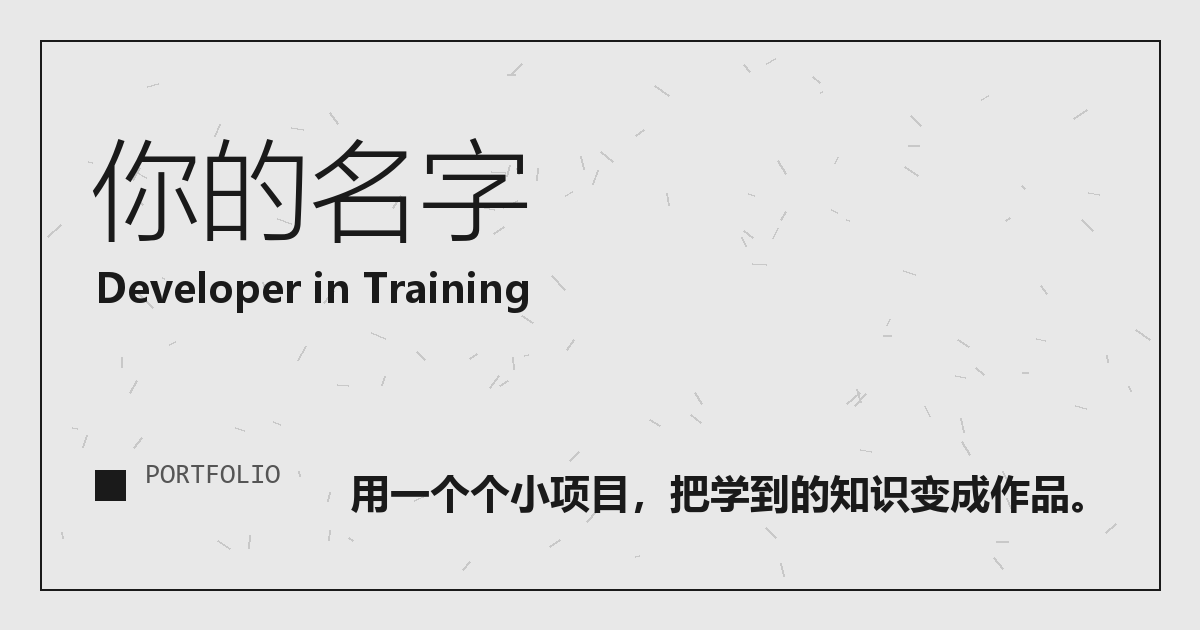
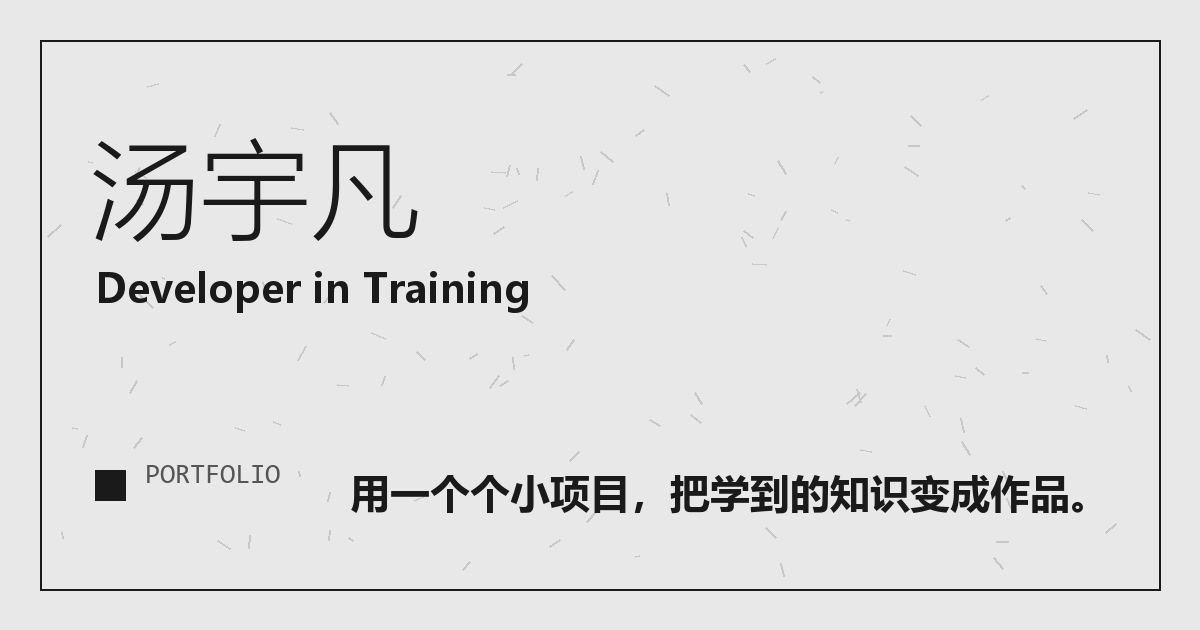
feat: 替换真实姓名与联系方式

Changed region(s): [[0.0617, 0.2111, 0.4625, 0.3921]]

diff --git a/index.html b/index.html
@@ -3,7 +3,7 @@
 <head>
   <meta charset="UTF-8" />
   <meta name="viewport" content="width=device-width, initial-scale=1.0" />
-  <title>你的名字 · Developer</title>
+  <title>汤宇凡 · Developer</title>
   <meta name="description" content="个人项目作品集网站：用一个个小项目，把学到的知识变成作品。" />
 
   <!-- 浏览器标签图标 -->
@@ -11,7 +11,7 @@
 
   <!-- 分享卡片（Open Graph）：链接发到社交媒体时显示标题、描述和预览图 -->
   <meta property="og:type" content="website" />
-  <meta property="og:title" content="你的名字 · Developer" />
+  <meta property="og:title" content="汤宇凡 · Developer" />
   <meta property="og:description" content="用一个个小项目，把学到的知识变成作品。" />
   <meta property="og:url" content="https://gjghjg.github.io/my-project-portfolio/" />
   <meta property="og:image" content="https://gjghjg.github.io/my-project-portfolio/assets/og-image.png" />
@@ -40,7 +40,7 @@
   <!-- 首屏 -->
   <header class="hero" id="home">
     <div class="hero__heading">
-      <h1 class="hero__name">你的名字</h1>
+      <h1 class="hero__name">汤宇凡</h1>
       <p class="hero__role">Developer in Training</p>
     </div>
 
@@ -93,14 +93,14 @@
     <section id="contact" class="section" aria-labelledby="contact-title">
       <h2 id="contact-title" class="section__label">CONTACT</h2>
       <ul class="contact-list">
-        <li><a href="mailto:you@example.com">you@example.com</a></li>
-        <li><a href="https://github.com/yourname" target="_blank" rel="noopener">github.com/yourname</a></li>
+        <li><a href="mailto:lingayu3214@163.com">lingayu3214@163.com</a></li>
+        <li><a href="https://github.com/gjghjg" target="_blank" rel="noopener">github.com/gjghjg</a></li>
       </ul>
     </section>
   </main>
 
   <footer class="site-footer">
-    <p>© <span id="year"></span> 你的名字</p>
+    <p>© <span id="year"></span> 汤宇凡</p>
   </footer>
 
   <script type="module" src="js/main.js"></script>

diff --git a/tests/site.test.js b/tests/site.test.js
@@ -65,6 +65,15 @@ test("页面：有 lang、title 和 viewport 设置", () => {
   assert.ok(html.includes("viewport"), "缺少 viewport meta");
 });
 
+test("个人信息：姓名、邮箱和 GitHub 均使用真实内容", () => {
+  assert.ok(html.includes("<title>汤宇凡 · Developer</title>"), "页面标题未使用真实姓名");
+  assert.ok(html.includes('<h1 class="hero__name">汤宇凡</h1>'), "首屏姓名未更新");
+  assert.ok(html.includes('href="mailto:lingayu3214@163.com"'), "邮箱链接未更新");
+  assert.ok(html.includes('href="https://github.com/gjghjg"'), "GitHub 链接未更新");
+  assert.ok(!html.includes("你的名字"), "页面仍包含姓名占位");
+  assert.ok(!html.includes("you@example.com"), "页面仍包含邮箱占位");
+});
+
 // ---------- 新功能：主题切换 ----------
 
 test("主题切换：包含 LIGHT / DARK 按钮和 data-theme 属性", () => {

diff --git a/tests/e2e/site.spec.js b/tests/e2e/site.spec.js
@@ -9,7 +9,7 @@ import { projects } from "../../js/data.js";
 
 test("首页加载：标题和首屏内容正确", async ({ page }) => {
   await page.goto("/");
-  await expect(page).toHaveTitle(/你的名字/);
+  await expect(page).toHaveTitle(/汤宇凡/);
   await expect(page.locator(".hero__name")).toBeVisible();
   await expect(page.locator("#flow-canvas")).toBeVisible();
 });

diff --git a/scripts/generate-og-image.py b/scripts/generate-og-image.py
@@ -43,7 +43,7 @@ def main():
     small_font = load_font(["consola.ttf", "msyh.ttc"], 28)
 
     # 左上：名字 + 角色
-    draw.text((90, 110), "你的名字", font=name_font, fill=FG)
+    draw.text((90, 110), "汤宇凡", font=name_font, fill=FG)
     draw.text((95, 260), "Developer in Training", font=role_font, fill=FG)
 
     # 左下：方形符号（呼应 favicon）

diff --git a/DECISIONS.md b/DECISIONS.md
@@ -11,6 +11,13 @@
 
 ---
 
+## 2026-11-27 替换真实个人信息，保留项目示例
+
+- **实际内容**：用户提供姓名「汤宇凡」、邮箱「lingayu3214@163.com」和 GitHub 地址「https://github.com/gjghjg」，用于替换页面身份与联系方式占位。
+- **范围**：更新页面标题、Open Graph 标题、首屏姓名、页脚、邮箱和 GitHub 链接，并重新生成同名 OG 分享图；`js/data.js` 中三个示例项目及其虚构仓库链接保持不变，等有真实作品后统一替换。
+- **验证**：新增个人信息结构测试，防止姓名、邮箱和 GitHub 占位回退；E2E 的标题断言同步改为真实姓名。分享图生成后实际检查中文显示与排版，再运行全部单元测试和三浏览器 E2E。
+- **结果**：32 项单元／结构测试与 51 项三浏览器 E2E 全部通过；OG 分享图中文显示正常。实际查看 1440×900 桌面和 375×812 手机完整页面，真实姓名、邮箱、GitHub 地址与页脚均完整显示，手机视口无横向溢出。
+
 ## 2026-11-27 记录首次手机真机验收反馈
 
 - **实际反馈**：用户反馈已按手机真机清单测试一遍，未发现问题。本次只记录这一整体结果，不虚构手机型号、系统、浏览器版本或逐项勾选状态。
@@ -122,9 +129,10 @@
 
 ## 待办 / 待定（TODO）
 
-- [ ] 替换所有占位内容：姓名、邮箱、GitHub 链接、示例项目
+- [x] 替换个人信息：姓名、邮箱、GitHub 链接（2026-11-27 完成）
+- [ ] 替换三个示例项目及其虚构仓库链接（等待真实作品）
 - [x] 把仓库推到远程（2026-11-17 完成：https://github.com/gjghjg/my-project-portfolio ，公开仓库，因为免费版 Pages 要求公开）
-- [ ] 用手机实际访问，检查窄屏下导航和竖排主题切换按钮的布局
+- [x] 用手机实际访问，检查窄屏下导航和竖排主题切换按钮的布局（2026-11-27 用户整体反馈通过，设备信息未记录）
 - [x] 低端手机性能：考虑小屏时减少粒子数量（2026-11-12 完成，手机 300 / 平板 600 / 桌面 900）
 - [x] 部署上线（2026-11-17 完成，GitHub Pages：https://gjghjg.github.io/my-project-portfolio/ ，推送自动更新）
 - [x] 部署后补 favicon 和分享卡片（OG meta）（2026-11-17 完成，OG 图可用 scripts/generate-og-image.py 重新生成）
